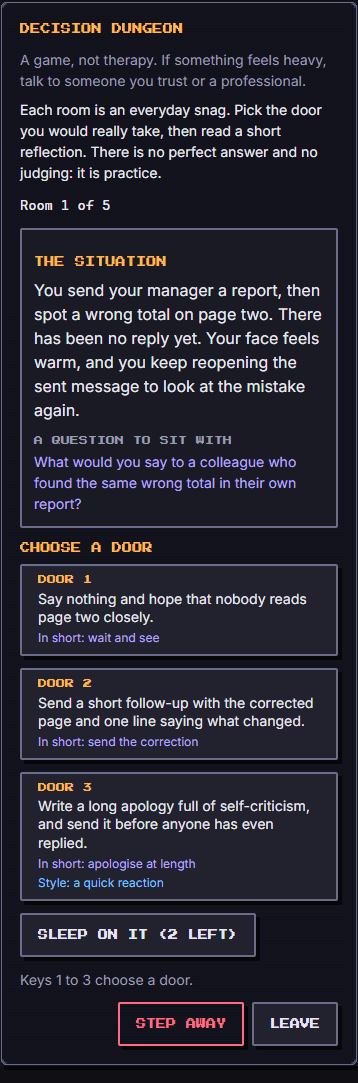
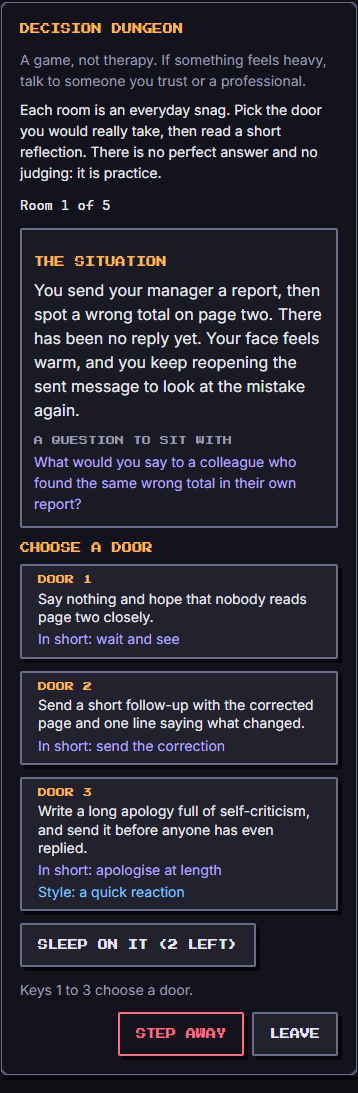
fix(games): keep the not-therapy note in landscape, 14 px cues, refresh screenshots [game-decision-dungeon]
Responsive pass at 320x568, 390x844 at 150% text and 844x390: the one-line
note was hidden on short screens and the cue and tag lines were 12 px.

Changed region(s): [[0.0615, 0.0, 0.9525, 0.9751], [0.7682, 0.9141, 0.8911, 0.9751], [0.5223, 0.9141, 0.6145, 0.9751]]

diff --git a/src/games/decision-dungeon/Screen.module.css b/src/games/decision-dungeon/Screen.module.css
@@ -165,7 +165,7 @@
 .cue,
 .tag {
   font-family: var(--font-body);
-  font-size: var(--text-xs);
+  font-size: var(--text-sm);
   text-transform: none;
   color: var(--color-accent-text);
 }
@@ -209,21 +209,20 @@
   color: var(--color-muted);
 }
 
+@media (prefers-reduced-motion: reduce) {
+  .room {
+    animation: none;
+  }
+}
+
 @media (min-width: 768px) {
   .doors {
     grid-template-columns: repeat(2, minmax(0, 1fr));
   }
 }
 
-@media (max-width: 359px) {
-  .intro {
-    font-size: var(--text-xs);
-  }
-}
-
 @media (max-height: 500px) {
-  .intro,
-  .disclaimer {
+  .intro {
     display: none;
   }
   .room {

diff --git a/docs/review/notes/game-decision-dungeon.md b/docs/review/notes/game-decision-dungeon.md
@@ -102,4 +102,16 @@ None. The lab, helpers, kit and lint were enough. (Observation only: `expectResp
 
 ## 7. Verification
 
-See the PR description for the exact commands and counts. Responsive check done by eye on screenshots from a production preview (`#/lab/decision-dungeon?difficulty=1..5&lang=fr`, `localStorage['haven.debug']='1'`): 320x568, 390x844 at 150 percent text and 844x390; findings and fixes are listed in the commit messages.
+```
+npm run lint                                  clean
+npm run typecheck                             clean
+npm test                                      76 files, 1048 tests pass (Decision Dungeon: 96 = 22 content + 49 engine + 15 Screen + 10 contract kit)
+npm run build                                 ok
+node scripts/games-budget.mjs                 decision-dungeon code 80.6 KB / 150 KB, assets 0 / 200 KB
+node scripts/check-main-chunk.mjs             ok (no game in the main chunk)
+npm run screenshots:check                     ok
+npx playwright test e2e/games/decision-dungeon.spec.ts --workers=2
+                                              13 passed, 1 skipped (axe on desktop by design), both projects, every test under 3 s
+```
+
+Responsive check, by eye on screenshots taken from a production preview (`#/lab/decision-dungeon?difficulty=1..5&lang=fr` and `lang=en`, `localStorage['haven.debug']='1'`, five states each: start, a reflection, hints and Sleep on it on the mixed buffed party, the end of a run): 320x568, 390x844 at 150 percent root text and 844x390. No horizontal scroll (`scrollWidth` equals the viewport at every size), nothing clipped, doors and buttons wrap their text. Two fixes came out of it: the not-therapy line was hidden in landscape (now always visible), and the cue and tag lines were 12 px (now 14 px).
